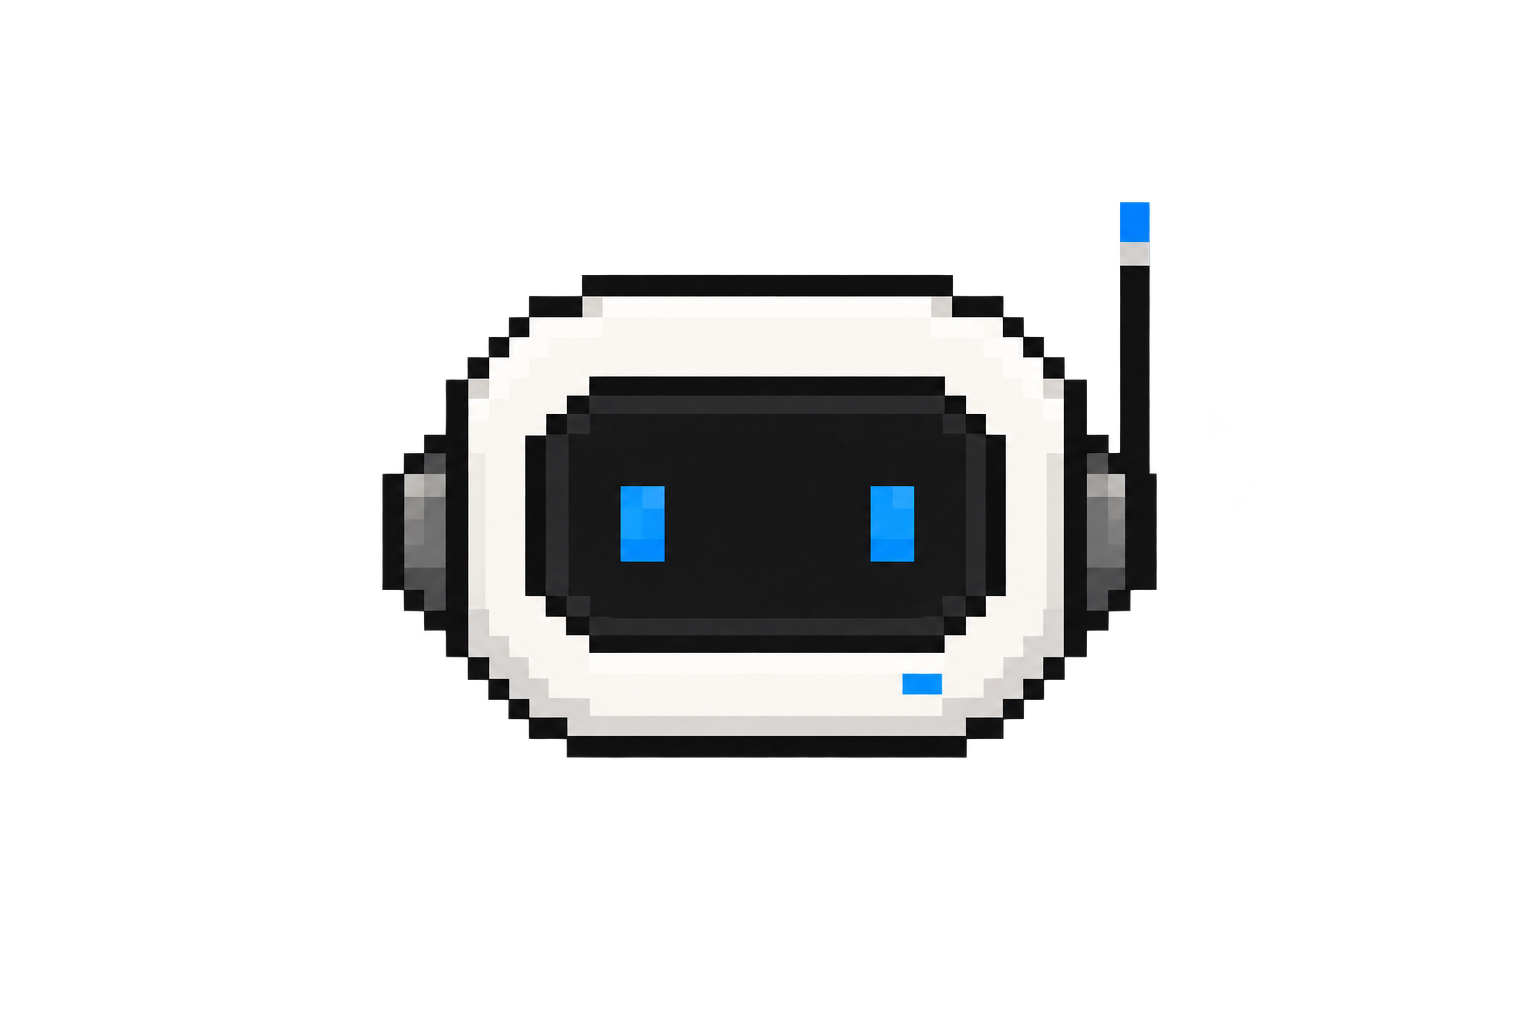
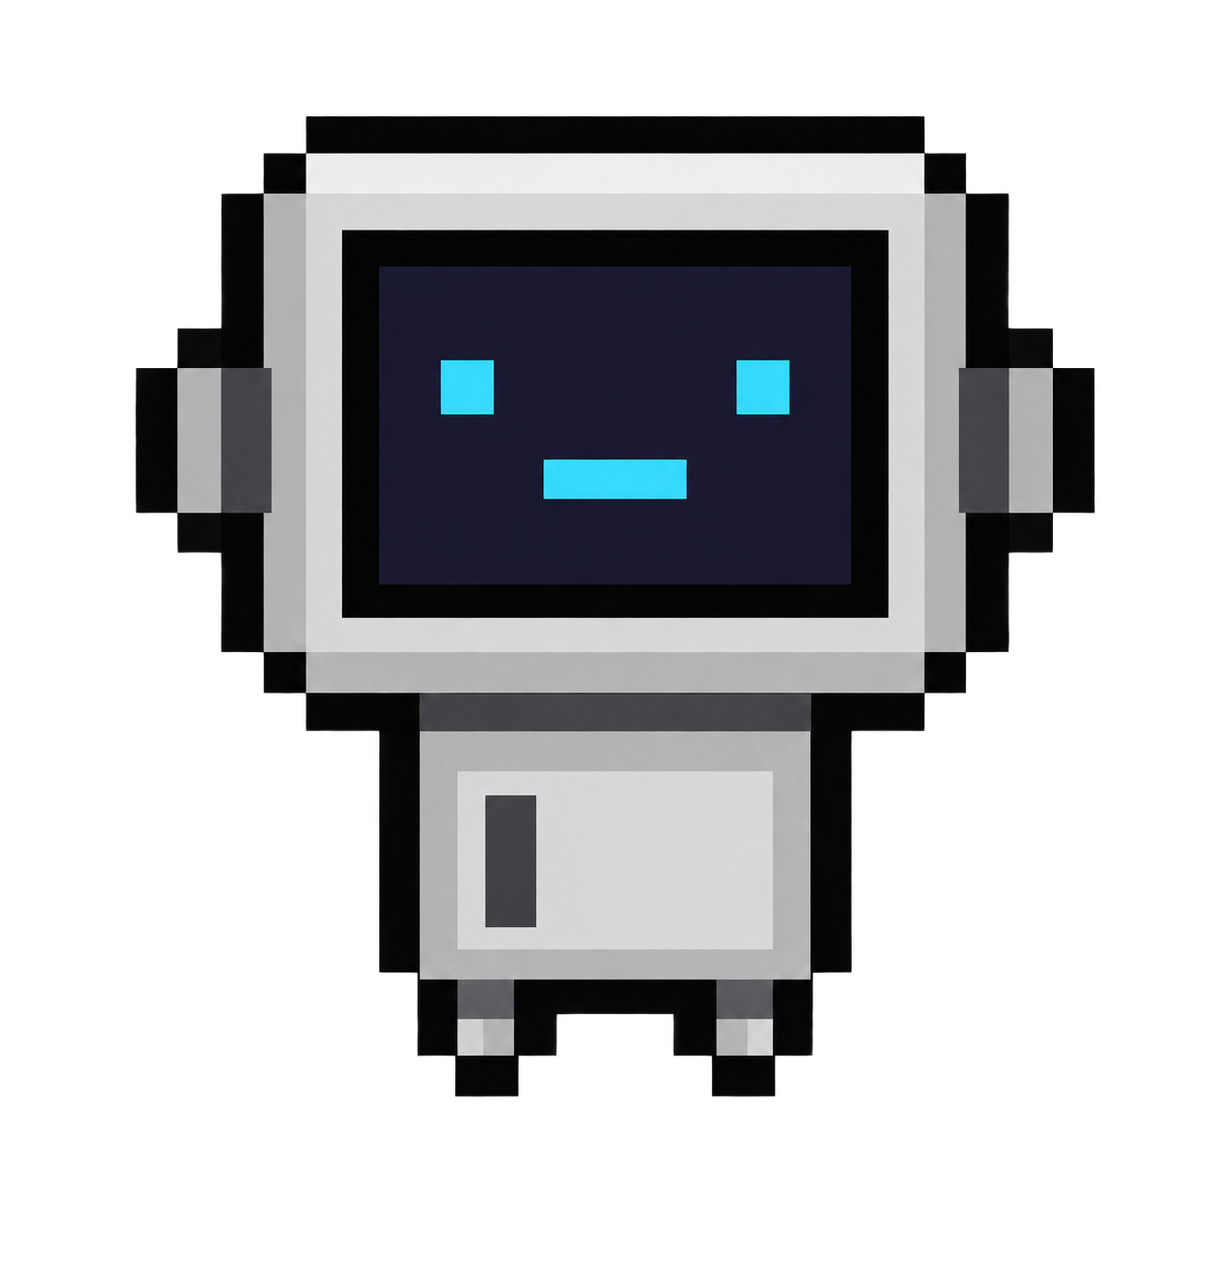
add floating response bubble and character themes

diff --git a/apps/windows/ShowWhere.Desktop/GuidancePanelWindow.xaml b/apps/windows/ShowWhere.Desktop/GuidancePanelWindow.xaml
@@ -9,6 +9,7 @@
   <Window.Resources>
     <SolidColorBrush x:Key="AccentBrush" Color="#FF472323" />
     <SolidColorBrush x:Key="AccentDarkBrush" Color="#FF472323" />
+    <SolidColorBrush x:Key="AccentSoftBrush" Color="#80472323" />
     <SolidColorBrush x:Key="TextBrush" Color="#FF24262B" />
     <SolidColorBrush x:Key="MutedBrush" Color="#FF6E7179" />
     <SolidColorBrush x:Key="BorderBrush" Color="#FFDFE1E5" />
@@ -31,7 +32,7 @@
             <ControlTemplate.Triggers>
               <Trigger Property="IsMouseOver" Value="True">
                 <Setter TargetName="ButtonBorder" Property="Background" Value="#FFF7F3F3" />
-                <Setter TargetName="ButtonBorder" Property="BorderBrush" Value="#FF472323" />
+                <Setter TargetName="ButtonBorder" Property="BorderBrush" Value="{DynamicResource AccentBrush}" />
               </Trigger>
               <Trigger Property="IsEnabled" Value="False">
                 <Setter TargetName="ButtonBorder" Property="Opacity" Value="0.45" />
@@ -57,8 +58,8 @@
             </Border>
             <ControlTemplate.Triggers>
               <Trigger Property="IsMouseOver" Value="True">
-                <Setter TargetName="ButtonBorder" Property="Background" Value="#FF472323" />
-                <Setter TargetName="ButtonBorder" Property="BorderBrush" Value="#FF472323" />
+                <Setter TargetName="ButtonBorder" Property="Background" Value="{DynamicResource AccentBrush}" />
+                <Setter TargetName="ButtonBorder" Property="BorderBrush" Value="{DynamicResource AccentBrush}" />
                 <Setter Property="Foreground" Value="White" />
               </Trigger>
               <Trigger Property="IsEnabled" Value="False">
@@ -86,10 +87,10 @@
             </Border>
             <ControlTemplate.Triggers>
               <Trigger Property="IsMouseOver" Value="True">
-                <Setter TargetName="InputBorder" Property="BorderBrush" Value="#80472323" />
+                <Setter TargetName="InputBorder" Property="BorderBrush" Value="{DynamicResource AccentSoftBrush}" />
               </Trigger>
               <Trigger Property="IsKeyboardFocusWithin" Value="True">
-                <Setter TargetName="InputBorder" Property="BorderBrush" Value="#80472323" />
+                <Setter TargetName="InputBorder" Property="BorderBrush" Value="{DynamicResource AccentSoftBrush}" />
               </Trigger>
             </ControlTemplate.Triggers>
           </ControlTemplate>
@@ -120,17 +121,39 @@
           <ColumnDefinition Width="Auto" />
         </Grid.ColumnDefinitions>
         <StackPanel>
-          <TextBlock Text="SHOWWHERE" Foreground="{StaticResource AccentBrush}"
+          <TextBlock Text="SHOWWHERE" Foreground="{DynamicResource AccentBrush}"
                      FontSize="15" FontWeight="Bold" />
           <TextBlock Text="" Foreground="{StaticResource TextBrush}"
                      FontSize="17" FontWeight="Bold" Margin="0,3,0,0" />
         </StackPanel>
         <StackPanel Grid.Column="1" Orientation="Horizontal" VerticalAlignment="Top">
-          <ComboBox Width="86" Height="30" Margin="0,0,6,0" Padding="7,3"
-                    ItemsSource="{Binding CharacterStore.Options, ElementName=PanelRoot}"
-                    DisplayMemberPath="DisplayName" SelectedValuePath="Key"
-                    SelectedValue="{Binding CharacterStore.SelectedCharacterKey, ElementName=PanelRoot, Mode=TwoWay, UpdateSourceTrigger=PropertyChanged}"
-                    ToolTip="플로팅 캐릭터 선택" />
+          <ToggleButton x:Name="SettingsButton" Content="☰" Width="30" Height="30"
+                        Margin="0,0,6,0" Padding="0" FontSize="16"
+                        Background="Transparent" BorderThickness="0"
+                        Foreground="#FF45474D" Cursor="Hand" FocusVisualStyle="{x:Null}"
+                        ToolTip="캐릭터 설정">
+            <ToggleButton.Template>
+              <ControlTemplate TargetType="ToggleButton">
+                <ContentPresenter HorizontalAlignment="Center" VerticalAlignment="Center" />
+              </ControlTemplate>
+            </ToggleButton.Template>
+          </ToggleButton>
+          <Popup x:Name="SettingsPopup" PlacementTarget="{Binding ElementName=SettingsButton}"
+                 Placement="Bottom" HorizontalOffset="-128" VerticalOffset="5"
+                 IsOpen="{Binding IsChecked, ElementName=SettingsButton, Mode=TwoWay}"
+                 StaysOpen="False" AllowsTransparency="True">
+            <Border Width="165" Background="White" BorderBrush="#FFD9DDE4" BorderThickness="1" Padding="10">
+              <StackPanel>
+                <TextBlock Text="캐릭터 설정" FontSize="12" FontWeight="Bold"
+                           Foreground="{StaticResource TextBrush}" Margin="2,0,0,8" />
+                <ListBox ItemsSource="{Binding CharacterStore.Options, ElementName=PanelRoot}"
+                         DisplayMemberPath="DisplayName" SelectedValuePath="Key"
+                         SelectedValue="{Binding CharacterStore.SelectedCharacterKey, ElementName=PanelRoot, Mode=TwoWay, UpdateSourceTrigger=PropertyChanged}"
+                         SelectionChanged="OnCharacterSelectionChanged"
+                         BorderThickness="0" Background="Transparent" Padding="0" />
+              </StackPanel>
+            </Border>
+          </Popup>
           <Button Content="LOG" Command="{Binding ToggleLearningHistoryCommand}"
                   Height="30" Margin="0,0,6,0" Padding="9,0" FontSize="10"
                   Style="{StaticResource QuietButton}" ToolTip="O/X/끝 기록을 확인하고 수정·저장합니다"
@@ -158,7 +181,7 @@
           <TextBlock Grid.Row="1" Text="{Binding StatusText}" Foreground="{StaticResource MutedBrush}"
                      FontSize="11" Margin="0,3,0,0" TextTrimming="CharacterEllipsis" />
           <ProgressBar Grid.Row="1" IsIndeterminate="True" Height="2" Margin="0,20,0,-9"
-                       Foreground="{StaticResource AccentBrush}"
+                       Foreground="{DynamicResource AccentBrush}"
                        Visibility="{Binding IsLoading, Converter={StaticResource BooleanToVisibilityConverter}}" />
         </Grid>
       </Border>
@@ -206,8 +229,8 @@
                 <DataTemplate.Triggers>
                   <DataTrigger Binding="{Binding Role}" Value="user">
                     <Setter TargetName="Bubble" Property="HorizontalAlignment" Value="Right" />
-                    <Setter TargetName="Bubble" Property="Background" Value="#FF472323" />
-                    <Setter TargetName="Bubble" Property="BorderBrush" Value="#FF472323" />
+                    <Setter TargetName="Bubble" Property="Background" Value="{DynamicResource AccentBrush}" />
+                    <Setter TargetName="Bubble" Property="BorderBrush" Value="{DynamicResource AccentBrush}" />
                     <Setter TargetName="Bubble" Property="CornerRadius" Value="18" />
                     <Setter TargetName="BubbleText" Property="Foreground" Value="White" />
                   </DataTrigger>
@@ -234,7 +257,7 @@
       </ScrollViewer>
 
       <Border Grid.Row="2" Panel.ZIndex="20" Background="#FFF7F7F8"
-              BorderBrush="#FF472323" BorderThickness="0,0,0,1"
+              BorderBrush="{DynamicResource AccentBrush}" BorderThickness="0,0,0,1"
               Visibility="{Binding IsLearningHistoryVisible, Converter={StaticResource BooleanToVisibilityConverter}}">
         <Grid Margin="14,12">
           <Grid.RowDefinitions>
@@ -318,7 +341,7 @@
           <Button Content="보내기" Command="{Binding SubmitCommand}"
                   Visibility="Collapsed" HorizontalAlignment="Right" VerticalAlignment="Bottom"
                   MinWidth="58" Height="32" Margin="0,0,7,7" Padding="9,5"
-                  Background="{StaticResource AccentBrush}" BorderBrush="{StaticResource AccentBrush}"
+                  Background="{DynamicResource AccentBrush}" BorderBrush="{DynamicResource AccentBrush}"
                   Foreground="White" FontSize="12" FontWeight="Bold" Cursor="Hand" />
         </Grid>
       </Border>
@@ -396,9 +419,9 @@
             <ColumnDefinition Width="8" />
             <ColumnDefinition Width="*" />
           </Grid.ColumnDefinitions>
-          <Button Content="다시 찾기" Command="{Binding RecoveryCommand}"
+          <Button Content="다시 찾기" Command="{Binding RecoveryCommand}" Click="OnBubbleActionClick"
                   Style="{StaticResource BottomActionButton}" />
-          <Button Grid.Column="2" Content="작업 취소" Command="{Binding CancelCommand}"
+          <Button Grid.Column="2" Content="작업 취소" Command="{Binding CancelCommand}" Click="OnBubbleActionClick"
                   Style="{StaticResource BottomActionButton}" />
         </Grid>
         <TextBlock Grid.Row="1" Text="표시된 버튼은 사용자가 직접 눌러야 합니다."

diff --git a/apps/windows/ShowWhere.Desktop/AssistantSpeechBubbleWindow.xaml b/apps/windows/ShowWhere.Desktop/AssistantSpeechBubbleWindow.xaml
@@ -1,0 +1,18 @@
+<Window x:Class="ShowWhere.Desktop.AssistantSpeechBubbleWindow"
+        xmlns="http://schemas.microsoft.com/winfx/2006/xaml/presentation"
+        xmlns:x="http://schemas.microsoft.com/winfx/2006/xaml"
+        Width="290" Height="170" WindowStyle="None" ResizeMode="NoResize"
+        AllowsTransparency="True" Background="Transparent" Topmost="True"
+        ShowInTaskbar="False" ShowActivated="False" Focusable="False"
+        IsHitTestVisible="False">
+  <Grid Margin="8" SnapsToDevicePixels="True" UseLayoutRounding="True">
+    <!-- The corners use only short straight steps; no curves or CornerRadius. -->
+    <Path Margin="2" Fill="White" Stroke="#FF202329" StrokeThickness="4"
+          StrokeLineJoin="Miter" Stretch="Fill"
+          Data="M 12,0 H 258 V 4 H 266 V 12 H 270 V 134 H 266 V 142 H 258 V 146 H 12 V 142 H 4 V 134 H 0 V 12 H 4 V 4 H 12 Z" />
+
+    <TextBlock Text="{Binding BubbleText, RelativeSource={RelativeSource AncestorType=Window}}"
+               Margin="21,17" Foreground="#FF202329" FontSize="14" TextWrapping="Wrap"
+               TextTrimming="CharacterEllipsis" LineHeight="20" VerticalAlignment="Center" />
+  </Grid>
+</Window>

diff --git a/apps/windows/ShowWhere.Desktop/AssistantGlyph.xaml b/apps/windows/ShowWhere.Desktop/AssistantGlyph.xaml
@@ -65,7 +65,7 @@
       </Border.Style>
       <Border.Background>
         <ImageBrush ImageSource="Assets/Assistant/robot.png"
-                    Viewbox="335,170,870,640" ViewboxUnits="Absolute"
+                    Viewbox="85,65,1060,1080" ViewboxUnits="Absolute"
                     Stretch="Uniform" AlignmentX="Center" AlignmentY="Bottom"
                     RenderOptions.BitmapScalingMode="HighQuality" />
       </Border.Background>

diff --git a/apps/windows/ShowWhere.Desktop/FloatingAssistantWindow.xaml.cs b/apps/windows/ShowWhere.Desktop/FloatingAssistantWindow.xaml.cs
@@ -1,4 +1,6 @@
 using System.Runtime.InteropServices;
+using System.Collections.Specialized;
+using System.ComponentModel;
 using System.Windows;
 using System.Windows.Input;
 using System.Windows.Interop;
@@ -14,10 +16,14 @@ public partial class FloatingAssistantWindow : Window
     private const uint SwpNoSize = 0x0001;
     private const uint SwpNoZOrder = 0x0004;
     private const uint SwpNoActivate = 0x0010;
+    private static readonly IntPtr HwndTopmost = new(-1);
     private const int ScreenMargin = 8;
     private readonly GuidancePanelWindow _panel;
     private readonly AssistantPositionStore _positionStore;
     private readonly Action _rememberForegroundWindow;
+    private readonly AssistantSpeechBubbleWindow _speechBubble = new();
+    private GuidanceViewModel? _viewModel;
+    private ChatMessageItem? _observedMessage;
     private Point? _mouseDownPosition;
     private bool _dragging;
 
@@ -46,6 +52,8 @@ public partial class FloatingAssistantWindow : Window
         CharacterStore = characterStore;
         _rememberForegroundWindow = rememberForegroundWindow;
         InitializeComponent();
+        DataContextChanged += OnDataContextChanged;
+        _panel.GoalSubmittedFromKeyboard += ShowResponseBubble;
         var saved = _positionStore.Load();
         Left = saved?.Left ?? SystemParameters.VirtualScreenLeft + SystemParameters.VirtualScreenWidth - Width - 24;
         Top = saved?.Top ?? SystemParameters.VirtualScreenTop + SystemParameters.VirtualScreenHeight / 2 - Height / 2;
@@ -85,6 +93,7 @@ public partial class FloatingAssistantWindow : Window
         finally { IsStanding = false; }
         SnapAndConstrain();
         _positionStore.Save(Left, Top);
+        if (_speechBubble.IsVisible) UpdateSpeechBubblePosition();
     }
 
     private void OnMouseLeftButtonUp(object sender, MouseButtonEventArgs eventArgs)
@@ -105,12 +114,78 @@ public partial class FloatingAssistantWindow : Window
             _panel.Hide();
             return;
         }
+        _speechBubble.Hide();
         if (_panel.WindowState == WindowState.Minimized) _panel.WindowState = WindowState.Normal;
         _rememberForegroundWindow();
         _panel.PositionNear(Left, Top, Width, Height);
         _panel.Show();
         _panel.Activate();
         _panel.FocusGoalInput();
+    }
+
+    private void ShowResponseBubble()
+    {
+        _panel.Hide();
+        MoveToScreenCenter();
+        _speechBubble.BubbleText = "답변을 준비하고 있어요…";
+        UpdateSpeechBubblePosition();
+        _speechBubble.Show();
+        BringCharacterToFront();
+    }
+
+    private void MoveToScreenCenter()
+    {
+        var work = SystemParameters.WorkArea;
+        Left = work.Left + (work.Width - Width) / 2;
+        Top = work.Top + (work.Height - Height) / 2;
+        SnapAndConstrain();
+        _positionStore.Save(Left, Top);
+    }
+
+    private void OnDataContextChanged(object sender, DependencyPropertyChangedEventArgs eventArgs)
+    {
+        if (_viewModel is not null) _viewModel.Messages.CollectionChanged -= OnMessagesChanged;
+        ObserveMessage(null);
+        _viewModel = eventArgs.NewValue as GuidanceViewModel;
+        if (_viewModel is not null) _viewModel.Messages.CollectionChanged += OnMessagesChanged;
+    }
+
+    private void OnMessagesChanged(object? sender, NotifyCollectionChangedEventArgs eventArgs)
+    {
+        if (_viewModel is null) return;
+        var latest = _viewModel.Messages.LastOrDefault(message => message.Role == "assistant");
+        if (latest is null) return;
+        ObserveMessage(latest);
+        UpdateBubbleText();
+    }
+
+    private void ObserveMessage(ChatMessageItem? message)
+    {
+        if (_observedMessage is not null) _observedMessage.PropertyChanged -= OnMessagePropertyChanged;
+        _observedMessage = message;
+        if (_observedMessage is not null) _observedMessage.PropertyChanged += OnMessagePropertyChanged;
+    }
+
+    private void OnMessagePropertyChanged(object? sender, PropertyChangedEventArgs eventArgs)
+    {
+        if (eventArgs.PropertyName is nameof(ChatMessageItem.Text) or nameof(ChatMessageItem.IsPending))
+            UpdateBubbleText();
+    }
+
+    private void UpdateBubbleText()
+    {
+        if (!_speechBubble.IsVisible || _observedMessage is null) return;
+        _speechBubble.BubbleText = _observedMessage.IsPending ? "답변을 준비하고 있어요…" : _observedMessage.Text;
+        UpdateSpeechBubblePosition();
+    }
+
+    private void UpdateSpeechBubblePosition() => _speechBubble.PositionNear(Left, Top, Width);
+
+    private void BringCharacterToFront()
+    {
+        var handle = new WindowInteropHelper(this).Handle;
+        if (handle != IntPtr.Zero)
+            _ = SetWindowPos(handle, HwndTopmost, 0, 0, 0, 0, SwpNoSize | SwpNoActivate | 0x0002);
     }
 
     private void SnapAndConstrain()
@@ -195,4 +270,10 @@ public partial class FloatingAssistantWindow : Window
         IntPtr.Size == 8 ? GetWindowLongPtr64(handle, index) : GetWindowLong32(handle, index);
     private static IntPtr SetWindowLongPtr(IntPtr handle, int index, IntPtr value) =>
         IntPtr.Size == 8 ? SetWindowLongPtr64(handle, index, value) : SetWindowLong32(handle, index, value);
+
+    protected override void OnClosed(EventArgs eventArgs)
+    {
+        _speechBubble.Close();
+        base.OnClosed(eventArgs);
+    }
 }

diff --git a/apps/windows/ShowWhere.Desktop/GuidancePanelWindow.xaml.cs b/apps/windows/ShowWhere.Desktop/GuidancePanelWindow.xaml.cs
@@ -2,6 +2,7 @@ using System.ComponentModel;
 using System.Collections.Specialized;
 using System.Windows;
 using System.Windows.Input;
+using System.Windows.Controls;
 using System.Windows.Controls.Primitives;
 using System.Windows.Interop;
 using System.Windows.Media;
@@ -16,12 +17,31 @@ public partial class GuidancePanelWindow : Window
     private INotifyCollectionChanged? _observedMessages;
 
     public AssistantCharacterStore CharacterStore { get; }
+    public event Action? GoalSubmittedFromKeyboard;
 
     public GuidancePanelWindow(AssistantCharacterStore characterStore)
     {
         CharacterStore = characterStore;
         InitializeComponent();
+        CharacterStore.PropertyChanged += OnCharacterStorePropertyChanged;
+        ApplyCharacterTheme();
         DataContextChanged += OnDataContextChanged;
+    }
+
+    private void OnCharacterStorePropertyChanged(object? sender, PropertyChangedEventArgs eventArgs)
+    {
+        if (eventArgs.PropertyName == nameof(AssistantCharacterStore.SelectedCharacterKey))
+            ApplyCharacterTheme();
+    }
+
+    private void ApplyCharacterTheme()
+    {
+        var accent = CharacterStore.SelectedCharacterKey == "robot"
+            ? Color.FromRgb(0x3D, 0x8B, 0xEF)
+            : Color.FromRgb(0x47, 0x23, 0x23);
+        Resources["AccentBrush"] = new SolidColorBrush(accent);
+        Resources["AccentDarkBrush"] = new SolidColorBrush(accent);
+        Resources["AccentSoftBrush"] = new SolidColorBrush(Color.FromArgb(0x80, accent.R, accent.G, accent.B));
     }
 
     protected override void OnSourceInitialized(EventArgs eventArgs)
@@ -112,7 +132,18 @@ public partial class GuidancePanelWindow : Window
     {
         if (eventArgs.Key != Key.Enter || Keyboard.Modifiers.HasFlag(ModifierKeys.Shift)) return;
         eventArgs.Handled = true;
-        if (DataContext is not GuidanceViewModel viewModel) return;
-        if (viewModel.SubmitCommand.CanExecute(null)) viewModel.SubmitCommand.Execute(null);
+        if (DataContext is not GuidanceViewModel viewModel || !viewModel.SubmitCommand.CanExecute(null)) return;
+        viewModel.SubmitCommand.Execute(null);
+        GoalSubmittedFromKeyboard?.Invoke();
+    }
+
+    private void OnBubbleActionClick(object sender, RoutedEventArgs eventArgs) =>
+        GoalSubmittedFromKeyboard?.Invoke();
+
+    private void OnCharacterSelectionChanged(object sender, SelectionChangedEventArgs eventArgs)
+    {
+        if (!IsLoaded || SettingsPopup is null) return;
+        SettingsPopup.IsOpen = false;
+        SettingsButton.IsChecked = false;
     }
 }

diff --git a/apps/windows/ShowWhere.Desktop/AssistantSpeechBubbleWindow.xaml.cs b/apps/windows/ShowWhere.Desktop/AssistantSpeechBubbleWindow.xaml.cs
@@ -1,0 +1,25 @@
+using System.Windows;
+
+namespace ShowWhere.Desktop;
+
+public partial class AssistantSpeechBubbleWindow : Window
+{
+    public static readonly DependencyProperty BubbleTextProperty = DependencyProperty.Register(
+        nameof(BubbleText), typeof(string), typeof(AssistantSpeechBubbleWindow),
+        new PropertyMetadata(string.Empty));
+
+    public string BubbleText
+    {
+        get => (string)GetValue(BubbleTextProperty);
+        set => SetValue(BubbleTextProperty, value);
+    }
+
+    public AssistantSpeechBubbleWindow() => InitializeComponent();
+
+    public void PositionNear(double assistantLeft, double assistantTop, double assistantWidth)
+    {
+        var work = SystemParameters.WorkArea;
+        Left = Math.Clamp(assistantLeft - Width + assistantWidth + 20, work.Left + 8, Math.Max(work.Left + 8, work.Right - Width - 8));
+        Top = Math.Clamp(assistantTop - Height + 31, work.Top + 8, Math.Max(work.Top + 8, work.Bottom - Height - 8));
+    }
+}
